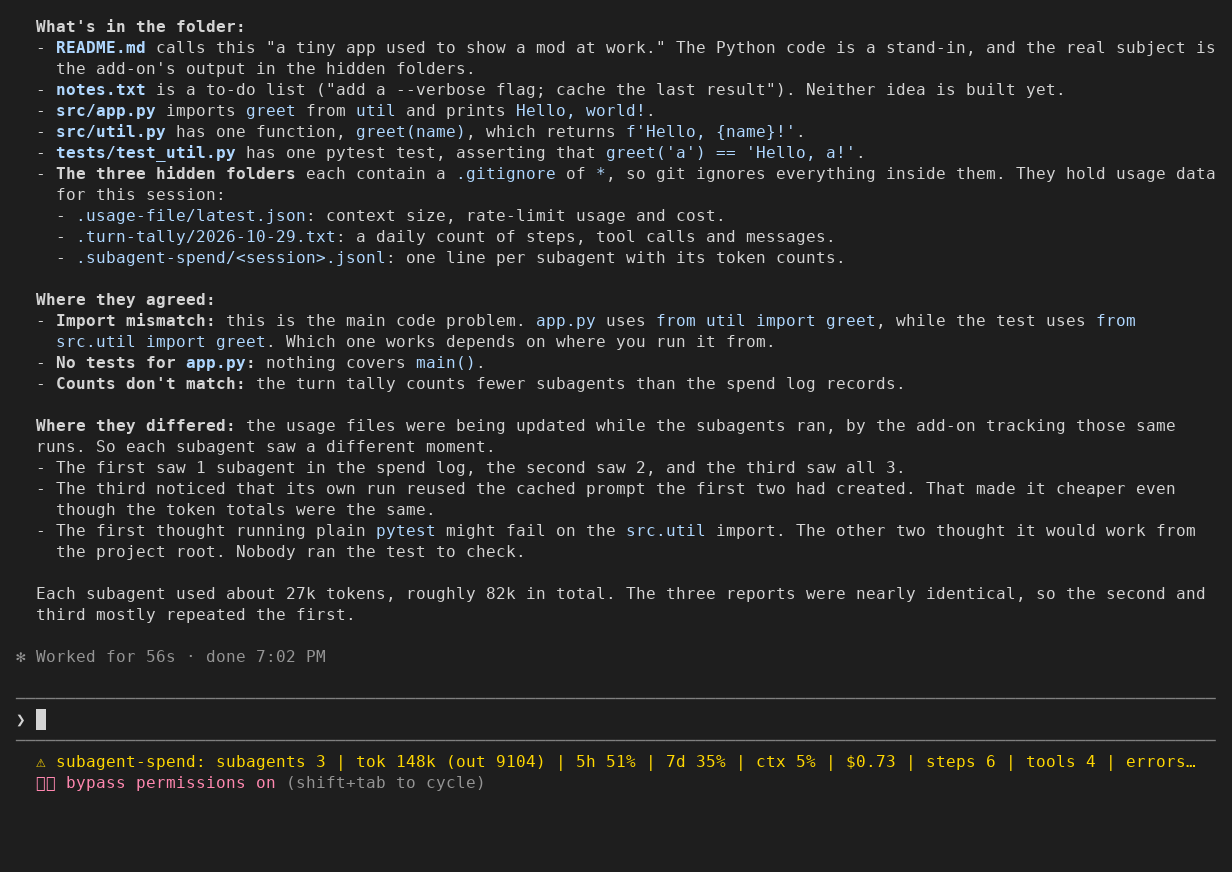
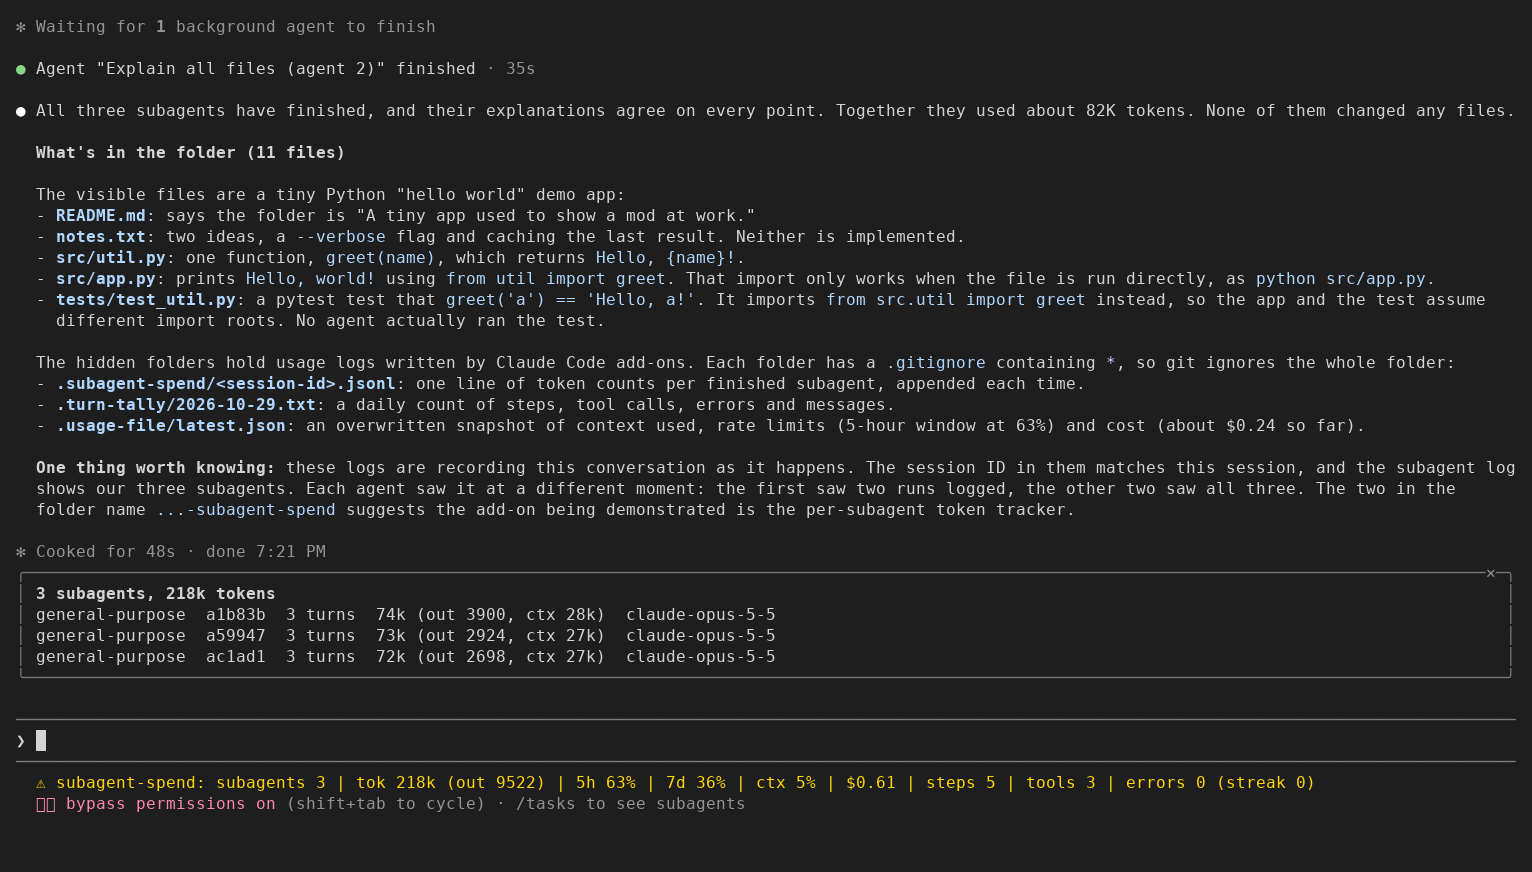
0.7.0: a /clear no longer empties a waiting rows-file write or leaves the panes on the old session; the subagent pane seen at 150 columns, the picture and the seen lines say so

diff --git a/hooks/review-clear.test.tsx b/hooks/review-clear.test.tsx
@@ -1,0 +1,109 @@
+import { expect, test } from 'claude-code/testing'
+import type { TestBody } from 'claude-code/testing'
+
+// Review tests (critic pass, 2026-10-29). Not product tests.
+
+type Written = { path: string; text: string }
+const u = { input_tokens: 10, output_tokens: 5, cache_read_input_tokens: 0, cache_creation_input_tokens: 0, model: 'claude-opus-5-5' }
+const PANE = {
+  plugin: 'subagent-spend',
+  component: 'Pane',
+  requestId: 'subagent-spend',
+  props: { title: 'Subagent spend', isFocused: false, bodyColumns: 80, placement: 'dock', scroll: { offset: 0, bodyRows: 20 }, view: {} },
+} as const
+const UPANE = { ...PANE, requestId: 'usage-file', props: { ...PANE.props, title: 'Usage' } } as const
+
+const world = (on: Parameters<TestBody>[1], sid: { v: string }, gate: { hold: Promise<void> | null; held?: boolean }) => {
+  const writes: Written[] = []
+  on('fs.write', (_, e) => (writes.push({ path: e.path, text: e.text }), { value: undefined }))
+  // the .gitignore check: a slow disk answers late when `gate.hold` is set
+  on('fs.exists', async () => {
+    const hold = gate.hold
+    if (hold) {
+      gate.held = true
+      await hold
+    }
+    return { value: true }
+  })
+  on('ui.status', () => ({ value: undefined }))
+  on('ui.open', () => ({ value: { isPlaced: true } }))
+  on('session.id', () => ({ value: sid.v }))
+  on('session.measure', (_, e) => ({ changed: e.changed }))
+  on('turn.step', async function* (_, e) {
+    return { turnId: e.turnId, index: e.index, answer: '', toolUses: [], stopReason: 'end_turn', usage: u }
+  })
+  return { writes }
+}
+const step = async ($: Parameters<TestBody>[0], index: number, agentId: string) => {
+  const s = $.turn.step({ turnId: 't1', index, model: 'claude-opus-5-5', messageCount: 3, agentId })
+  for (;;) {
+    const n = await s.next()
+    if (n.done) return n.value
+  }
+}
+const clear = ($: Parameters<TestBody>[0], sid: { v: string }, next: string) =>
+  $.session.end({ reason: 'clear', sessionId: sid.v, resume: { id: sid.v } } as any).catch(() => undefined).then(() => { sid.v = next })
+const lastOf = (w: Written[], name: string) => w.filter(x => x.path.endsWith(name)).at(-1)?.text ?? '(none)'
+
+test('review comparison: a rows-file write held on a slow .gitignore check, no /clear, keeps both rows', async ($, on) => {
+  const sid = { v: 'rv1-old' }
+  const gate: { hold: Promise<void> | null; held?: boolean } = { hold: null }
+  const { writes } = world(on, sid, gate)
+  await step($, 0, 'rv1-a')
+  let release = () => {}
+  gate.hold = new Promise<void>(r => (release = r))
+  const pending = step($, 0, 'rv1-b')
+  while (!gate.held) await Promise.resolve()
+  gate.hold = null
+  release()
+  await pending
+  expect(lastOf(writes, 'rv1-old.jsonl').split('\n').filter(Boolean).length).toBe(2)
+})
+
+test('review kind 1/2: a rows-file write held on a slow .gitignore check across /clear does not empty the old session file', async ($, on) => {
+  const sid = { v: 'rv2-old' }
+  const gate: { hold: Promise<void> | null; held?: boolean } = { hold: null }
+  const { writes } = world(on, sid, gate)
+  await step($, 0, 'rv2-a')
+  let release = () => {}
+  gate.hold = new Promise<void>(r => (release = r))
+  const pending = step($, 0, 'rv2-b')
+  while (!gate.held) await Promise.resolve()
+  await clear($, sid, 'rv2-new')
+  gate.hold = null
+  release()
+  await pending
+  expect(lastOf(writes, 'rv2-old.jsonl').split('\n').filter(Boolean).length).toBe(2)
+})
+
+test('review comparison: /clear then a subagent step, the spend pane lists only the new agent', async ($, on) => {
+  const sid = { v: 'rv3-old' }
+  world(on, sid, { hold: null })
+  await step($, 0, 'rv3-a')
+  await clear($, sid, 'rv3-new')
+  await step($, 0, 'rv3-n')
+  const ui = await $.ui.mount({ ...PANE, surface: 'terminal' })
+  expect((await ui.find({ type: 'Text', text: /subagents, / }))?.text).toBe('1 subagents, 15 tokens')
+  expect((await ui.findAll({ type: 'Text', text: / turns / })).map(t => t.text.split('  ')[1])).toEqual(['rv3-n'])
+  await ui.unmount()
+})
+
+test('review kind 1: after /clear with no subagent yet, the spend pane agrees with /subagent-spend (0 subagents)', async ($, on) => {
+  const sid = { v: 'rv4-old' }
+  world(on, sid, { hold: null })
+  await step($, 0, 'rv4-a')
+  await clear($, sid, 'rv4-new')
+  const ui = await $.ui.mount({ ...PANE, surface: 'terminal' })
+  expect((await ui.find({ type: 'Text', text: /subagents, / }))?.text).toBe('0 subagents, 0 tokens')
+  await ui.unmount()
+})
+
+test('review kind 1: after /clear with no measurement yet, the usage pane does not show the old session figures', async ($, on) => {
+  const sid = { v: 'rv5-old' }
+  world(on, sid, { hold: null })
+  await $.session.measure({ context: { window: 200000, percent: 20 }, rateLimits: [{ kind: 'five_hour', percentUsed: 40 }], cost: { usd: 3.5 }, changed: ['rateLimits'] } as any)
+  await clear($, sid, 'rv5-new')
+  const ui = await $.ui.mount({ ...UPANE, surface: 'terminal' })
+  expect((await ui.find({ type: 'Text', text: /Cost/ }))?.text ?? 'no cost line').toBe('no cost line')
+  await ui.unmount()
+})

diff --git a/hooks/register.tsx b/hooks/register.tsx
@@ -231,7 +231,15 @@ export const register: Register = (on, options) => {
   on('session.end', async ($, e, next) => {
     startOver(e.sessionId)
     parts.spend = undefined
+    // cost and context belong to the session left: the panes and the line wait for the new one's first reading
+    parts.usage = undefined
     showStatus($, parts)
+    try {
+      await update($, shownRows, () => [])
+      await update($, shownUsage, () => null)
+    } catch {
+      // the panes miss one redraw; the next step or measurement draws them
+    }
     return next(e)
   })
 
@@ -299,7 +307,9 @@ export const register: Register = (on, options) => {
     parts.spend = spendStatus()
     showStatus($, parts)
     try {
-      files.spend.newest = { name: `${sessionId || 'no-session'}.jsonl`, text: rowsText }
+      // the text is taken now, not at the write: a /clear while a write waits empties the Map it reads
+      const text = rowsText()
+      files.spend.newest = { name: `${sessionId || 'no-session'}.jsonl`, text: () => text }
       await writeLatest($, spendDir, files.spend)
     } catch (err) {
       // unwritable folder: say so once, then the session goes on

diff --git a/README.md b/README.md
@@ -6,15 +6,17 @@ This mod (a plugin that adds behaviour to Claude Code) shows three things in
 one line under the prompt and writes each to a small local file a script can
 read: the tokens each subagent used, summed per subagent; the usage limits;
 and a running count of steps, tool calls and tool errors. It also has side
-panes, not yet seen on a real screen. Nothing leaves your machine.
+panes: the subagent pane is seen below; the Usage pane is not yet seen on a
+real screen. Nothing leaves your machine.
 
-![The bottom of Claude Code after three subagents ran: the line under the prompt reads subagents 3, tok 148k, then the usage windows, cost and step counts](docs/preview.png)
+![Claude Code after three subagents ran: the subagent pane lists the three with their turns and tokens, and the line under the prompt reads subagents 3, tok 218k, then the usage windows, cost and step counts](docs/preview.png)
 
-Seen in a Claude Code 2.1.312 terminal (120 columns) on 2026-10-29, after
-three subagents ran; the window cut the end of the line with "…". `tok`
-counts every token the subagents sent and got, cache reads included, so it
-is larger than the token figure each subagent reports when it returns (the
-answer above the line used those: about 82k).
+Seen in a Claude Code 2.1.312 terminal (150 columns) on 2026-10-29, after
+three subagents ran: the subagent pane opened by itself and the whole line
+fits. `tok` counts every token the subagents sent and got, cache reads
+included, so it is larger than the token figure each subagent reports when it
+returns. At 120 columns the same session drew no pane and the end of the line
+was cut with "…".
 
 ## Install
 
@@ -78,16 +80,17 @@ usage-file and turn-tally; each can be turned off on its own.
 
 | Part | Shows | Writes |
 |---|---|---|
-| Subagent spend | every subagent's tokens, turns and model, in a pane (not yet seen on a screen) | `.subagent-spend/<session_id>.jsonl` |
+| Subagent spend | every subagent's tokens, turns and model, in a pane | `.subagent-spend/<session_id>.jsonl` |
 | Usage (`usageFile`) | rate-limit windows, context fill and cost, in a pane (not yet seen on a screen) | `.usage-file/latest.json` |
 | Turn counts (`turnTally`) | main-conversation steps, tool calls and tool errors | `.turn-tally/<YYYY-MM-DD>.txt` |
 
-What the panes and the status line hold, written out. The panes are not
-yet seen on a real screen: every terminal preview of this version
-(Claude Code 2.1.312, all 120 columns wide) drew the notice under the prompt
-but no pane, and none was run at 144 columns or wider. The two pane examples below are what the code draws, not a capture.
+What the panes and the status line hold, written out. In the previews of
+this version (Claude Code 2.1.312), the 120-column ones drew no pane and the
+150-column one opened the subagent pane by itself; the Usage pane has not
+been seen. The two pane examples below are what the code draws, not a capture.
 
 ```
+2 subagents, 53k tokens
 Explore  a1b2c3  8 turns  41k (out 2104, ctx 24k)  claude-opus-5-5
 claude   d4e5f6  3 turns  12k (out 640, ctx 9k)  claude-opus-5-5
 ```
@@ -116,8 +119,7 @@ the input, output, cache-read and cache-creation tokens the API reported for
 each of its steps, summed as the steps happen (the pane updating step by
 step is not yet seen on a real screen). `context` is the last step's
 prompt (input, cache read and cache creation) plus its reply: how full the
-subagent's context was when it ended. The pane (not yet seen on a real
-screen) opens by itself at the first subagent of a session and lists them, biggest spender first, as many as its height holds;
+subagent's context was when it ended. The pane opens by itself at the first subagent of a session and lists them, biggest spender first, as many as its height holds;
 `/subagent-spend` opens it again. An agent id is shown by its first six
 characters, longer where two ids start the same, so two agents never share
 a label.
@@ -129,8 +131,8 @@ main conversation, and when a window moves a whole point). `/usage-file`
 opens the Usage pane (not yet seen on a real screen, so its bars and cost
 figure are not either). It also asks to open itself once, the first time any
 window reaches 80 percent; Claude Code places a pane nobody asked for only
-when the terminal is at least 144 columns wide, and no narrower terminal has
-been tried. A window at 80 percent or
+when the terminal is at least 144 columns wide; the self-opening at 80
+percent has not been tried at any width. A window at 80 percent or
 more is drawn in red (not yet seen on a real screen).
 
 **Turn counts.** A step is one model request on the main conversation.
@@ -321,7 +323,7 @@ or under an option folder).
 sh tests/release.sh
 ```
 
-That runs `claude plugin validate .`; `claude plugin test .`, 57 tests
+That runs `claude plugin validate .`; `claude plugin test .`, 62 tests
 through the test runner Claude Code ships for plugins, with a mocked file
 system and mocked Claude Code events (the tests of the three former mods, one per
 option turned off, and tests where events finish out of order, arrive two at

diff --git a/CHANGELOG.md b/CHANGELOG.md
@@ -8,6 +8,9 @@ Three separate mods (subagent-spend, usage-file, turn-tally) measured one sessio
 options, new files written and a new status line.
 
 ### Fixed
+- A /clear while a rows-file write was waiting on the disk emptied the old session's file: the text is now taken
+  when the step is counted. After a /clear the subagent pane and the Usage pane went on showing the old session (the
+  command already said 0); both now start empty, and the usage part of the status line waits for the new reading.
 - Each `.gitignore` is written only in a folder of the mod's own name: with `dir` set to `.`, it replaced the
   project's own `.gitignore` with `*`. The by-hand script keeps the same rule for `SUBAGENT_SPEND_DIR`.
 - After a `/clear` (a new session id with no new session start) the old session's subagents no longer land in the
@@ -18,10 +21,10 @@ options, new files written and a new status line.
 - A deleted folder came back in the same session without its `.gitignore`, so git saw the rows file: the
   `.gitignore` is now checked before every write.
 - Tests for the `/clear` (old rows kept apart, the pane and the command starting over, a late session id, a
-  resume), a deleted folder, a host with no session id, and the by-hand script's `.gitignore` rule; 57 module tests in all.
+  resume), a deleted folder, a host with no session id, and the by-hand script's `.gitignore` rule, and a write still waiting across a /clear; 62 module tests in all.
 
 ### Changed
-- plugin.json and marketplace.json say the panes are not yet seen on a screen.
+- plugin.json and marketplace.json say the usage pane is not yet seen on a screen (the subagent pane was seen at 150 columns).
 - README: Install comes right after the opening paragraph and names the Claude Code versions it needs
   (2.1.275 for `/plugin install --marketplace`, 2.1.292 for the shell form, from Claude Code's CHANGELOG); the
   notice is shown as a terminal drew it, with the `⚠ subagent-spend:` Claude Code puts in front; claude-hud's
